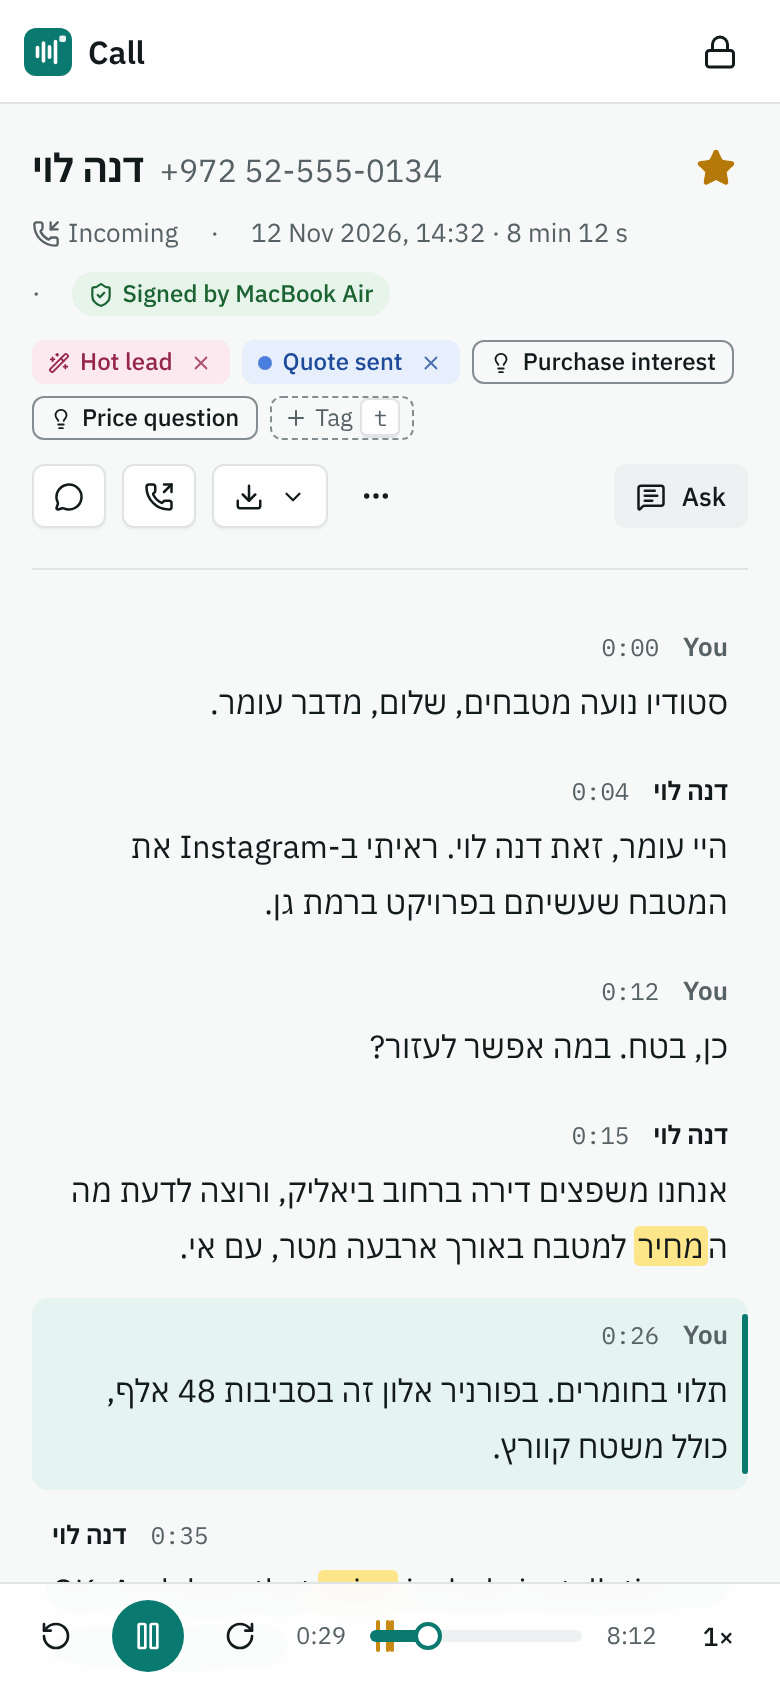
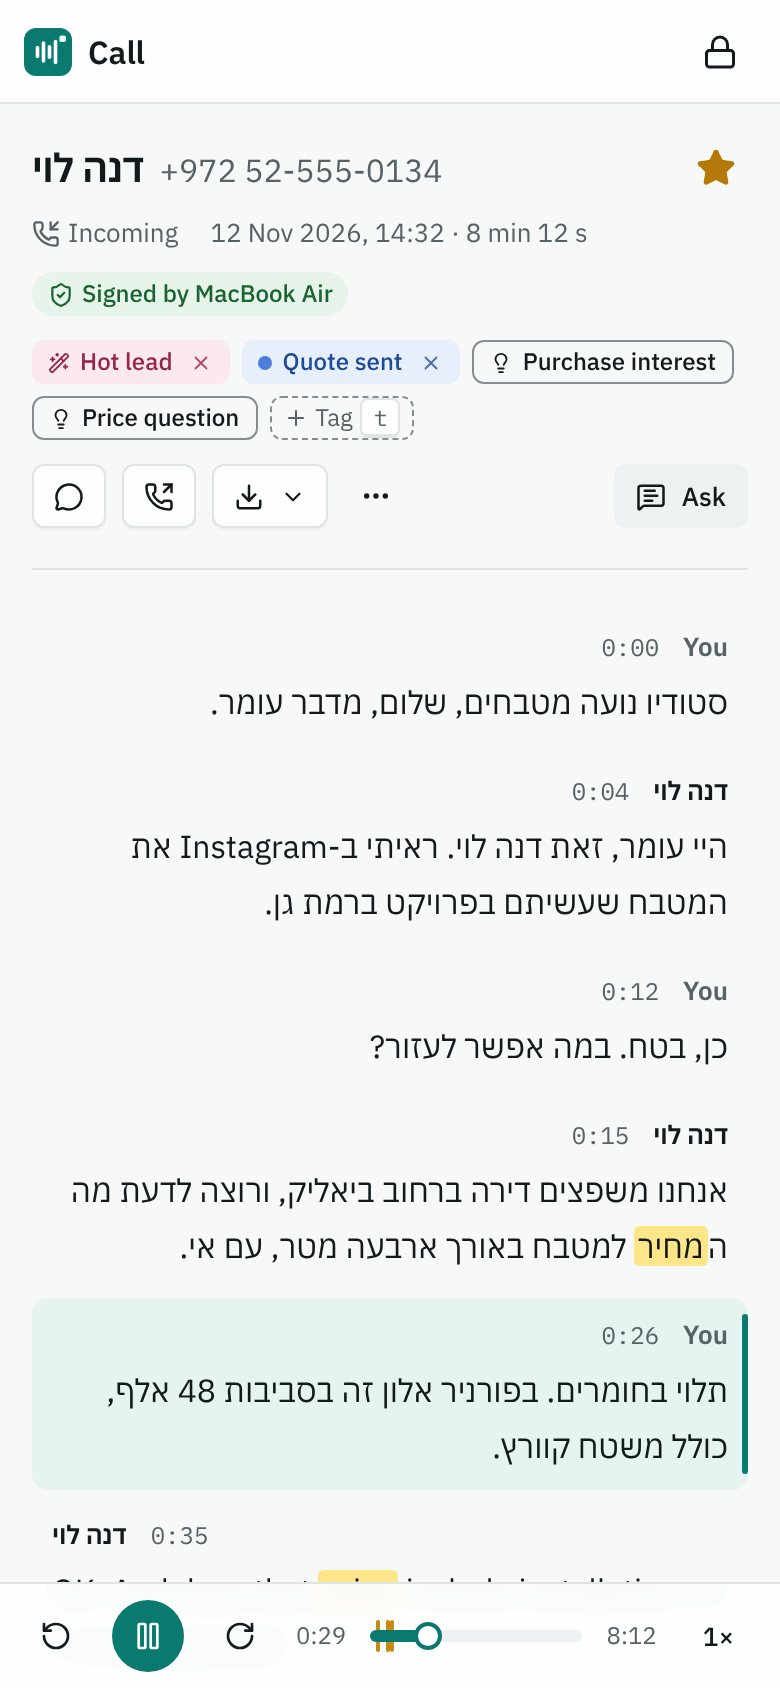
design: refresh all mocks and screenshots after copy and component changes
Rebuilds every mock from the final catalog components and retakes all
112 screenshots (14 mocks, light and dark, English and Hebrew, desktop
and mobile). Also hides call header separators on mobile.

Claude-Session: https://claude.ai/code/session_01HF6bgVHRjBSvE8rG6NPH2K

Changed region(s): [[0.0615, 0.1232, 0.8, 0.1848]]

diff --git a/docs/design/mocks/call-view-consent.html b/docs/design/mocks/call-view-consent.html
@@ -484,6 +484,7 @@ textarea.input{height:auto;padding-block:.5rem;resize:vertical;line-height:1.375
   .seg-turn{padding:.5rem .625rem}
   .player{position:fixed;inset-inline:0;bottom:0;padding:.5rem .75rem calc(.5rem + env(safe-area-inset-bottom))}
   .actions .lbl-m{display:none}
+  .hsep{display:none}
 }
 @media (max-width:767px){.dialog{inset-block-start:auto;inset-block-end:0;transform:none;inset-inline-start:0;width:100%;max-height:88vh;border-end-start-radius:0;border-end-end-radius:0}[dir=rtl] .dialog{transform:none}}</style>
 </head>
@@ -537,7 +538,7 @@ textarea.input{height:auto;padding-block:.5rem;resize:vertical;line-height:1.375
   <div class="row" style="align-items:flex-start;gap:.75rem">
     <div class="grow stack" style="gap:.375rem">
       <span class="contact " data-component="ContactLabel"><span class="name" dir="auto">דנה לוי</span><span class="num"><bdi class="ltr-island tabular" data-component="PhoneNumber">+972 52-555-0134</bdi></span></span>
-      <div class="hmeta"><span class="row" style="gap:.25rem;color:var(--muted-foreground)" data-component="CallDirection"><svg class="i " width="14" height="14" viewBox="0 0 24 24" fill="none" stroke="currentColor" stroke-width="2" stroke-linecap="round" stroke-linejoin="round" aria-hidden="true"><path d="M16 2v6h6" /> <path d="m22 2-6 6" /> <path d="M13.832 16.568a1 1 0 0 0 1.213-.303l.355-.465A2 2 0 0 1 17 15h3a2 2 0 0 1 2 2v3a2 2 0 0 1-2 2A18 18 0 0 1 2 4a2 2 0 0 1 2-2h3a2 2 0 0 1 2 2v3a2 2 0 0 1-.8 1.6l-.468.351a1 1 0 0 0-.292 1.233 14 14 0 0 0 6.392 6.384" /></svg><span data-he="נכנסת">Incoming</span></span><span>·</span><span class="tabular" data-component="CallMeta"><span data-he="12 בנוב׳ 2026, 14:32">12 Nov 2026, 14:32</span> · <span data-he="8 דק׳ 12 שנ׳">8 min 12 s</span></span><span>·</span><span class="badge badge-success" data-component="SignatureBadge"><svg class="i " width="13" height="13" viewBox="0 0 24 24" fill="none" stroke="currentColor" stroke-width="2" stroke-linecap="round" stroke-linejoin="round" aria-hidden="true"><path d="M20 13c0 5-3.5 7.5-7.66 8.95a1 1 0 0 1-.67-.01C7.5 20.5 4 18 4 13V6a1 1 0 0 1 1-1c2 0 4.5-1.2 6.24-2.72a1.17 1.17 0 0 1 1.52 0C14.51 3.81 17 5 19 5a1 1 0 0 1 1 1z" /> <path d="m9 12 2 2 4-4" /></svg><span data-he="נחתם על ידי MacBook Air">Signed by MacBook Air</span></span></div>
+      <div class="hmeta"><span class="row" style="gap:.25rem;color:var(--muted-foreground)" data-component="CallDirection"><svg class="i " width="14" height="14" viewBox="0 0 24 24" fill="none" stroke="currentColor" stroke-width="2" stroke-linecap="round" stroke-linejoin="round" aria-hidden="true"><path d="M16 2v6h6" /> <path d="m22 2-6 6" /> <path d="M13.832 16.568a1 1 0 0 0 1.213-.303l.355-.465A2 2 0 0 1 17 15h3a2 2 0 0 1 2 2v3a2 2 0 0 1-2 2A18 18 0 0 1 2 4a2 2 0 0 1 2-2h3a2 2 0 0 1 2 2v3a2 2 0 0 1-.8 1.6l-.468.351a1 1 0 0 0-.292 1.233 14 14 0 0 0 6.392 6.384" /></svg><span data-he="נכנסת">Incoming</span></span><span class="hsep">·</span><span class="tabular" data-component="CallMeta"><span data-he="12 בנוב׳ 2026, 14:32">12 Nov 2026, 14:32</span> · <span data-he="8 דק׳ 12 שנ׳">8 min 12 s</span></span><span class="hsep">·</span><span class="badge badge-success" data-component="SignatureBadge"><svg class="i " width="13" height="13" viewBox="0 0 24 24" fill="none" stroke="currentColor" stroke-width="2" stroke-linecap="round" stroke-linejoin="round" aria-hidden="true"><path d="M20 13c0 5-3.5 7.5-7.66 8.95a1 1 0 0 1-.67-.01C7.5 20.5 4 18 4 13V6a1 1 0 0 1 1-1c2 0 4.5-1.2 6.24-2.72a1.17 1.17 0 0 1 1.52 0C14.51 3.81 17 5 19 5a1 1 0 0 1 1 1z" /> <path d="m9 12 2 2 4-4" /></svg><span data-he="נחתם על ידי MacBook Air">Signed by MacBook Air</span></span></div>
     </div>
     <button class="star on" data-component="StarToggle" aria-label="Unstar" data-he-aria-label="הסרת כוכב" aria-pressed="true"><svg class="i " width="20" height="20" viewBox="0 0 24 24" fill="none" stroke="currentColor" stroke-width="2" stroke-linecap="round" stroke-linejoin="round" aria-hidden="true"><path d="M11.525 2.295a.53.53 0 0 1 .95 0l2.31 4.679a2.123 2.123 0 0 0 1.595 1.16l5.166.756a.53.53 0 0 1 .294.904l-3.736 3.638a2.123 2.123 0 0 0-.611 1.878l.882 5.14a.53.53 0 0 1-.771.56l-4.618-2.428a2.122 2.122 0 0 0-1.973 0L6.396 21.01a.53.53 0 0 1-.77-.56l.881-5.139a2.122 2.122 0 0 0-.611-1.879L2.16 9.795a.53.53 0 0 1 .294-.906l5.165-.755a2.122 2.122 0 0 0 1.597-1.16z" /></svg></button>
   </div>

diff --git a/docs/design/mocks/call-view.html b/docs/design/mocks/call-view.html
@@ -484,6 +484,7 @@ textarea.input{height:auto;padding-block:.5rem;resize:vertical;line-height:1.375
   .seg-turn{padding:.5rem .625rem}
   .player{position:fixed;inset-inline:0;bottom:0;padding:.5rem .75rem calc(.5rem + env(safe-area-inset-bottom))}
   .actions .lbl-m{display:none}
+  .hsep{display:none}
 }
 </style>
 </head>
@@ -537,7 +538,7 @@ textarea.input{height:auto;padding-block:.5rem;resize:vertical;line-height:1.375
   <div class="row" style="align-items:flex-start;gap:.75rem">
     <div class="grow stack" style="gap:.375rem">
       <span class="contact " data-component="ContactLabel"><span class="name" dir="auto">דנה לוי</span><span class="num"><bdi class="ltr-island tabular" data-component="PhoneNumber">+972 52-555-0134</bdi></span></span>
-      <div class="hmeta"><span class="row" style="gap:.25rem;color:var(--muted-foreground)" data-component="CallDirection"><svg class="i " width="14" height="14" viewBox="0 0 24 24" fill="none" stroke="currentColor" stroke-width="2" stroke-linecap="round" stroke-linejoin="round" aria-hidden="true"><path d="M16 2v6h6" /> <path d="m22 2-6 6" /> <path d="M13.832 16.568a1 1 0 0 0 1.213-.303l.355-.465A2 2 0 0 1 17 15h3a2 2 0 0 1 2 2v3a2 2 0 0 1-2 2A18 18 0 0 1 2 4a2 2 0 0 1 2-2h3a2 2 0 0 1 2 2v3a2 2 0 0 1-.8 1.6l-.468.351a1 1 0 0 0-.292 1.233 14 14 0 0 0 6.392 6.384" /></svg><span data-he="נכנסת">Incoming</span></span><span>·</span><span class="tabular" data-component="CallMeta"><span data-he="12 בנוב׳ 2026, 14:32">12 Nov 2026, 14:32</span> · <span data-he="8 דק׳ 12 שנ׳">8 min 12 s</span></span><span>·</span><span class="badge badge-success" data-component="SignatureBadge"><svg class="i " width="13" height="13" viewBox="0 0 24 24" fill="none" stroke="currentColor" stroke-width="2" stroke-linecap="round" stroke-linejoin="round" aria-hidden="true"><path d="M20 13c0 5-3.5 7.5-7.66 8.95a1 1 0 0 1-.67-.01C7.5 20.5 4 18 4 13V6a1 1 0 0 1 1-1c2 0 4.5-1.2 6.24-2.72a1.17 1.17 0 0 1 1.52 0C14.51 3.81 17 5 19 5a1 1 0 0 1 1 1z" /> <path d="m9 12 2 2 4-4" /></svg><span data-he="נחתם על ידי MacBook Air">Signed by MacBook Air</span></span></div>
+      <div class="hmeta"><span class="row" style="gap:.25rem;color:var(--muted-foreground)" data-component="CallDirection"><svg class="i " width="14" height="14" viewBox="0 0 24 24" fill="none" stroke="currentColor" stroke-width="2" stroke-linecap="round" stroke-linejoin="round" aria-hidden="true"><path d="M16 2v6h6" /> <path d="m22 2-6 6" /> <path d="M13.832 16.568a1 1 0 0 0 1.213-.303l.355-.465A2 2 0 0 1 17 15h3a2 2 0 0 1 2 2v3a2 2 0 0 1-2 2A18 18 0 0 1 2 4a2 2 0 0 1 2-2h3a2 2 0 0 1 2 2v3a2 2 0 0 1-.8 1.6l-.468.351a1 1 0 0 0-.292 1.233 14 14 0 0 0 6.392 6.384" /></svg><span data-he="נכנסת">Incoming</span></span><span class="hsep">·</span><span class="tabular" data-component="CallMeta"><span data-he="12 בנוב׳ 2026, 14:32">12 Nov 2026, 14:32</span> · <span data-he="8 דק׳ 12 שנ׳">8 min 12 s</span></span><span class="hsep">·</span><span class="badge badge-success" data-component="SignatureBadge"><svg class="i " width="13" height="13" viewBox="0 0 24 24" fill="none" stroke="currentColor" stroke-width="2" stroke-linecap="round" stroke-linejoin="round" aria-hidden="true"><path d="M20 13c0 5-3.5 7.5-7.66 8.95a1 1 0 0 1-.67-.01C7.5 20.5 4 18 4 13V6a1 1 0 0 1 1-1c2 0 4.5-1.2 6.24-2.72a1.17 1.17 0 0 1 1.52 0C14.51 3.81 17 5 19 5a1 1 0 0 1 1 1z" /> <path d="m9 12 2 2 4-4" /></svg><span data-he="נחתם על ידי MacBook Air">Signed by MacBook Air</span></span></div>
     </div>
     <button class="star on" data-component="StarToggle" aria-label="Unstar" data-he-aria-label="הסרת כוכב" aria-pressed="true"><svg class="i " width="20" height="20" viewBox="0 0 24 24" fill="none" stroke="currentColor" stroke-width="2" stroke-linecap="round" stroke-linejoin="round" aria-hidden="true"><path d="M11.525 2.295a.53.53 0 0 1 .95 0l2.31 4.679a2.123 2.123 0 0 0 1.595 1.16l5.166.756a.53.53 0 0 1 .294.904l-3.736 3.638a2.123 2.123 0 0 0-.611 1.878l.882 5.14a.53.53 0 0 1-.771.56l-4.618-2.428a2.122 2.122 0 0 0-1.973 0L6.396 21.01a.53.53 0 0 1-.77-.56l.881-5.139a2.122 2.122 0 0 0-.611-1.879L2.16 9.795a.53.53 0 0 1 .294-.906l5.165-.755a2.122 2.122 0 0 0 1.597-1.16z" /></svg></button>
   </div>
